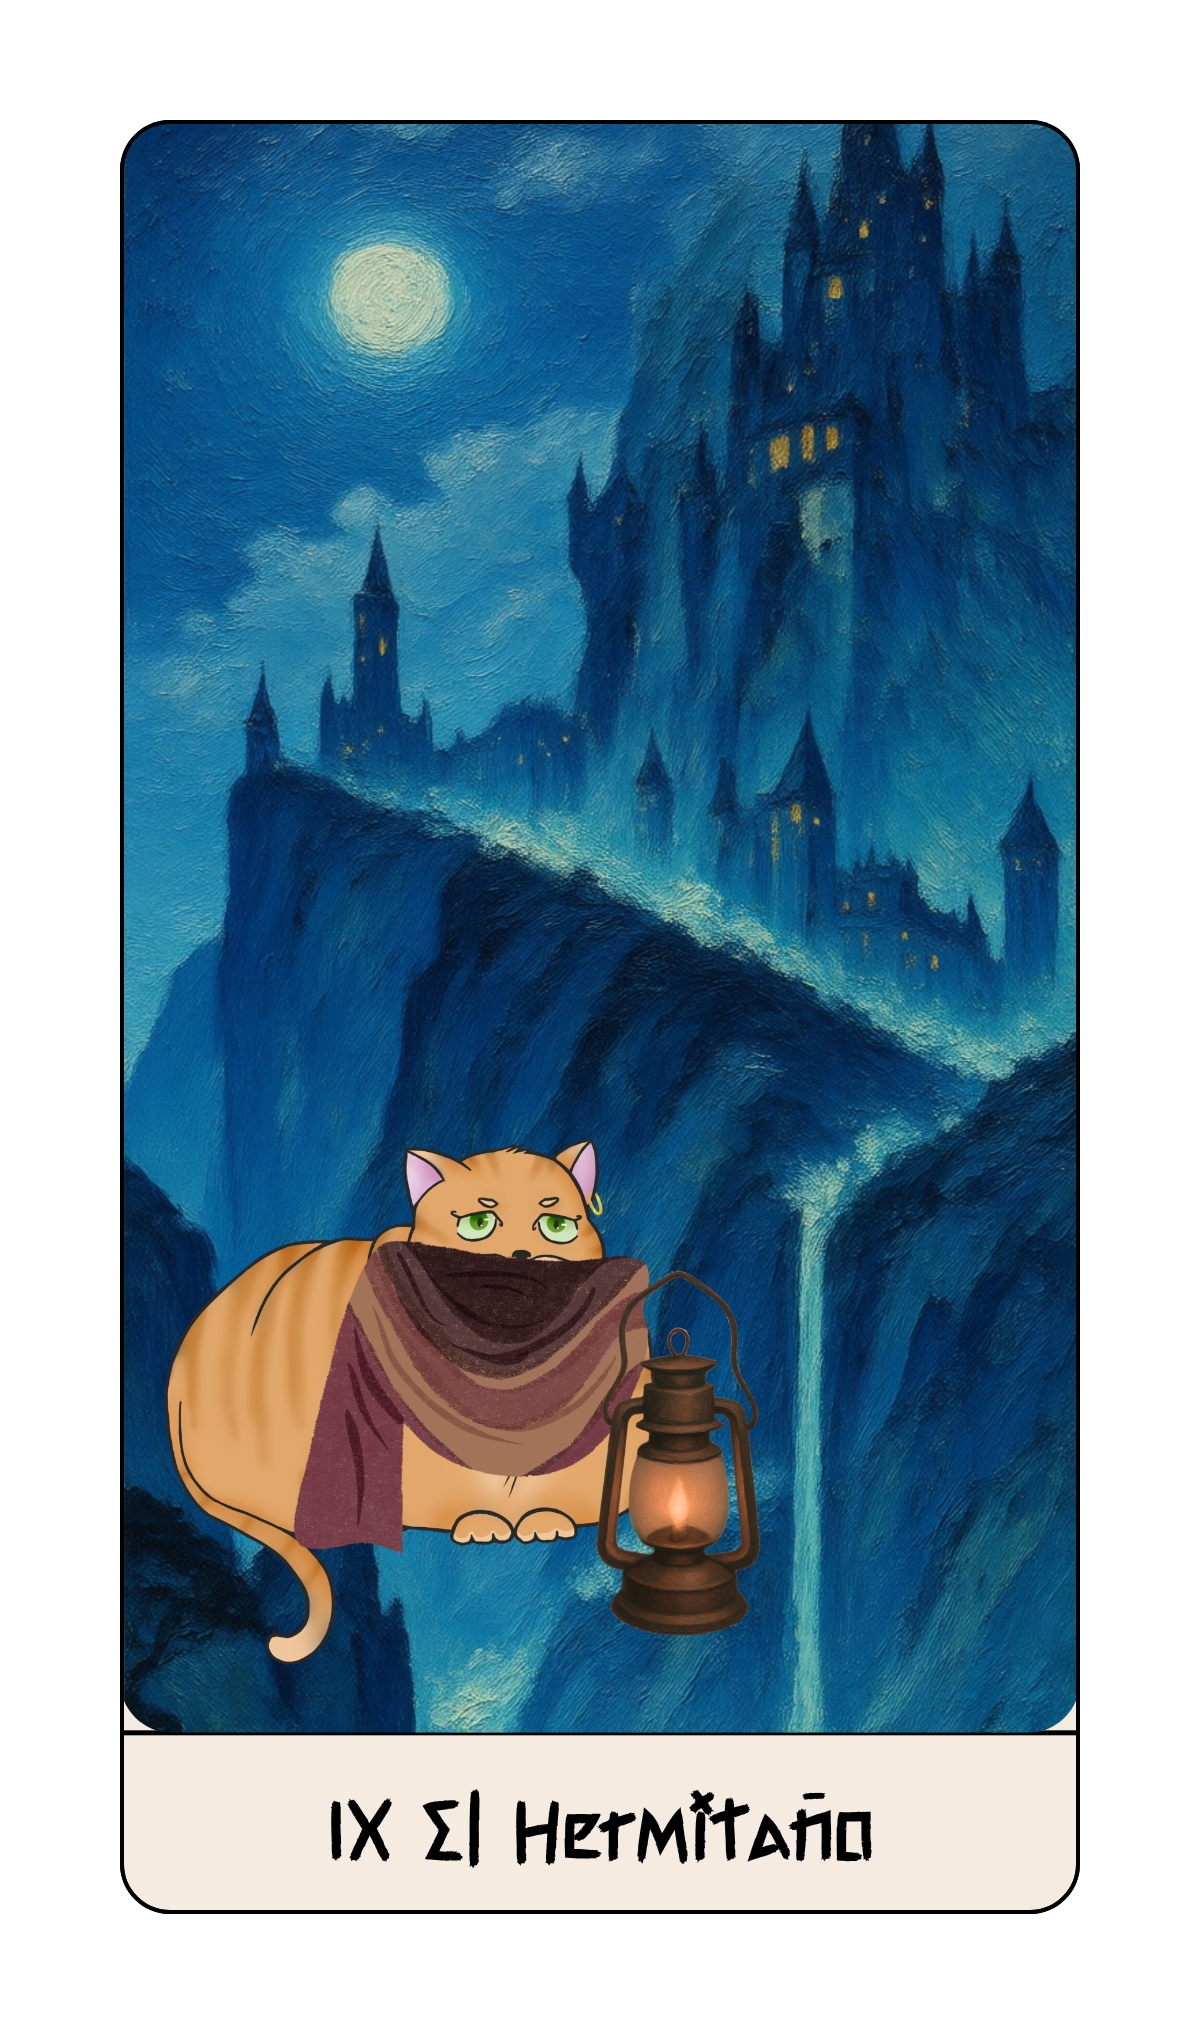
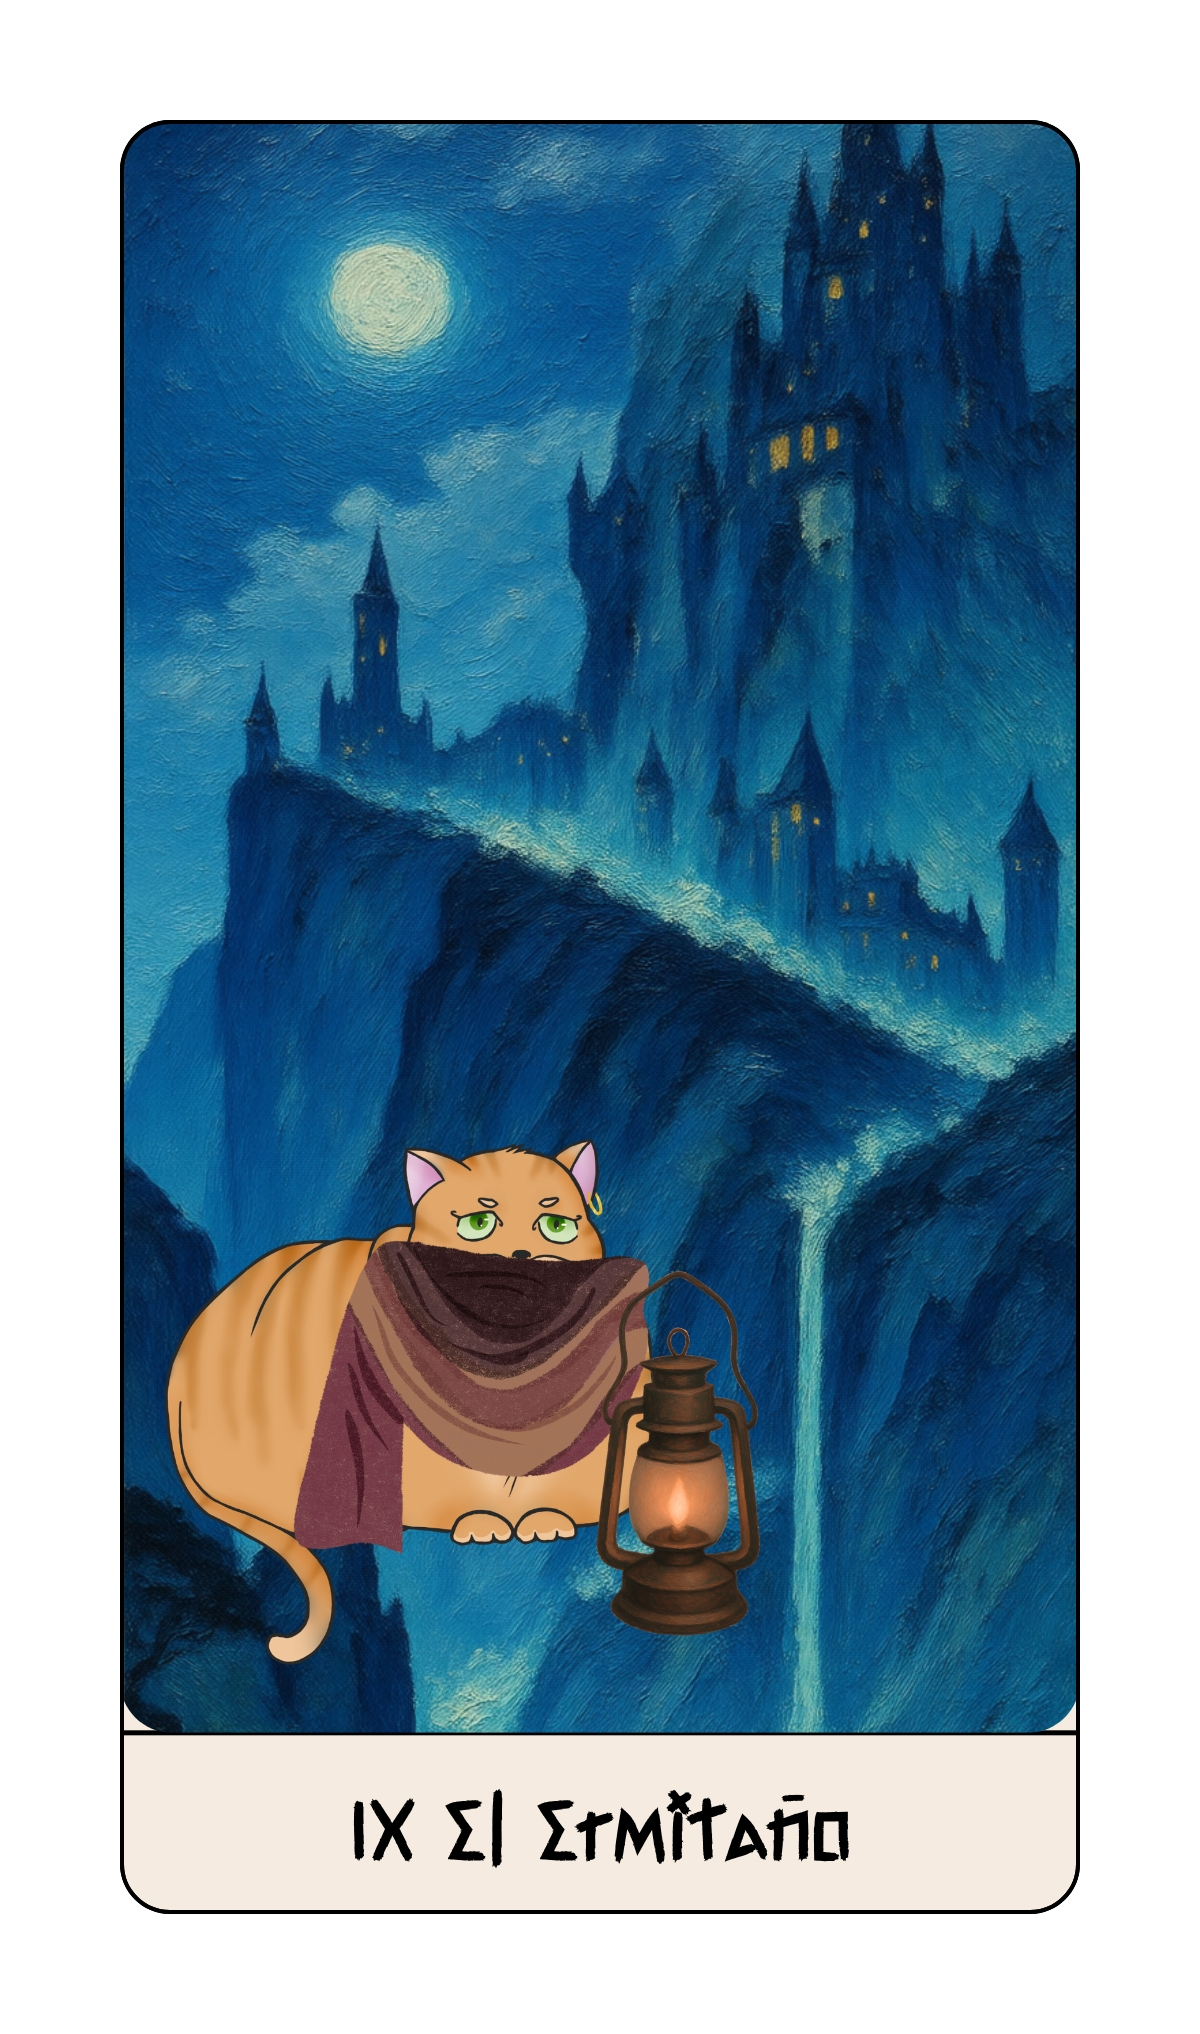
arreglo gatos y otros b

Changed region(s): [[0.2775, 0.8673, 0.74, 0.9292]]

diff --git a/script.js b/script.js
@@ -1,25 +1,25 @@
 const imagenes = [
-"../gato/tarot/2.png",
-"../gato/tarot/3.png",
-"../theOracle-bot/tarot/4.png",
-"../theOracle-bot/tarot/5.png",
-"../theOracle-bot/tarot/6.png",
-"../theOracle-bot/tarot/7.png",
-"../theOracle-bot/tarot/8.png",
-"../theOracle-bot/tarot/9.png",
-"../theOracle-bot/tarot/10.png",
-"../theOracle-bot/tarot/11.png",
-"../theOracle-bot/tarot/12.png",
-"../theOracle-bot/tarot/13.png",
-"../theOracle-bot/tarot/14.png",
-"../theOracle-bot/tarot/15.png",
-"../theOracle-bot/tarot/16.png",
-"../theOracle-bot/tarot/17.png",
-"../theOracle-bot/tarot/18.png",
-"../theOracle-bot/tarot/19.png",
-"../theOracle-bot/tarot/20.png",
-"../theOracle-bot/tarot/21.png",
-"../theOracle-bot/tarot/22.png",
+"../gato/tarot/2.jpg",
+"../gato/tarot/3.jpg",
+"../gato/tarot/4.jpg",
+"../gato/tarot/5.jpg",
+"../gato/tarot/6.jpg",
+"../gato/tarot/7.jpg",
+"../gato/tarot/8.jpg",
+"../gato/tarot/9.jpg",
+"../gato/tarot/10.jpg",
+"../gato/tarot/11.jpg",
+"../gato/tarot/12.jpg",
+"../gato/tarot/13.jpg",
+"../gato/tarot/14.jpg",
+"../gato/tarot/15.jpg",
+"../gato/tarot/16.jpg",
+"../gato/tarot/17.jpg",
+"../gato/tarot/18.jpg",
+"../gato/tarot/19.jpg",
+"../gato/tarot/20.jpg",
+"../gato/tarot/21.jpg",
+"../gato/tarot/22.jpg",
 ];
 
 const titulos = [
@@ -32,7 +32,7 @@ const titulos = [
   "Los amantes",
   "El carro",
   "La justicia",
-  "El hermitaño",
+  "El ermitaño",
   "La rueda de la fortuna",
   "La fuerza",
   "El colgado",

diff --git a/Gatomenón.html b/Gatomenón.html
@@ -1,14 +1,15 @@
 <html>
 <head>
 <title> 𓃠 Historia de Gatomenón 𓃠 </title>
+
 <body>
+
 <iframe 
     src="https://heyzine.com/flip-book/55ad801d53.html"
-    width="50%"
+    width="100%"
     height="500"
     style="border:none;"
     allowfullscreen>
-</iframe>
 </iframe>
 
 </head>

diff --git a/index.html b/index.html
@@ -9,6 +9,7 @@
 <link href="https://fonts.googleapis.com/css2?family=Jaini&display=swap" rel="stylesheet">
 
 <script src="script.js" defer></script>
+
 <meta name="description" content="">
 <meta name="viewport" content="width=device-width, initial-scale=1">
 
@@ -20,7 +21,9 @@
 
 <h1> Oráculo felino </h1>
 
-<p>This text is centered.</p>
+<p> Haz click para conocer
+    <a href="Gatomenón.html">la historia de Gatomenón</a> 
+    </p>
 
 
 

diff --git a/estilo.css b/estilo.css
@@ -1,5 +1,5 @@
 body {
-    background-color:antiquewhite;
+    background-color:#faedcd;
 }
 
 .jaini-regular {
@@ -16,7 +16,7 @@ h1 {
 }
 
 p {
-    font-size: 2vw;
+    font-size: 1vw;
     text-align: center;
     color:#654c4f;
 }